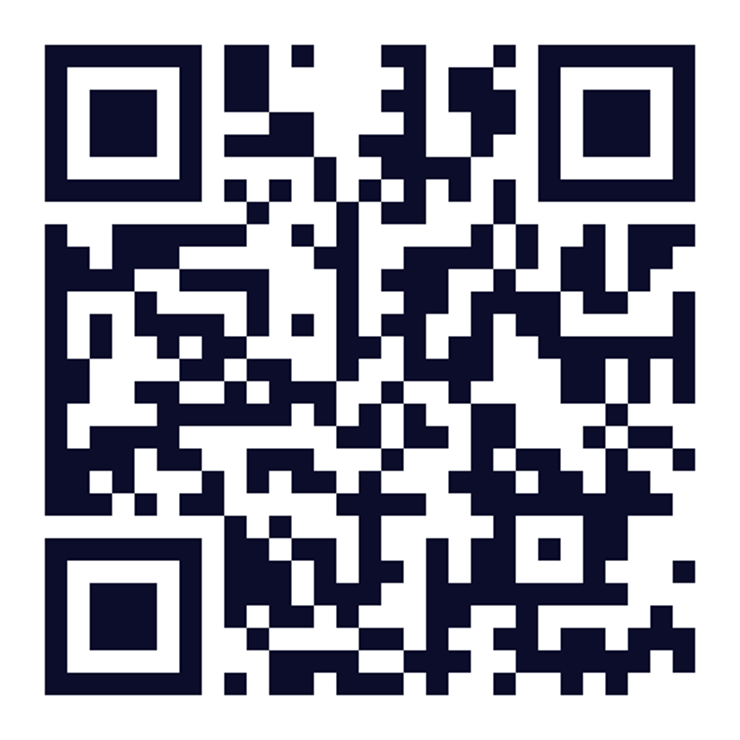
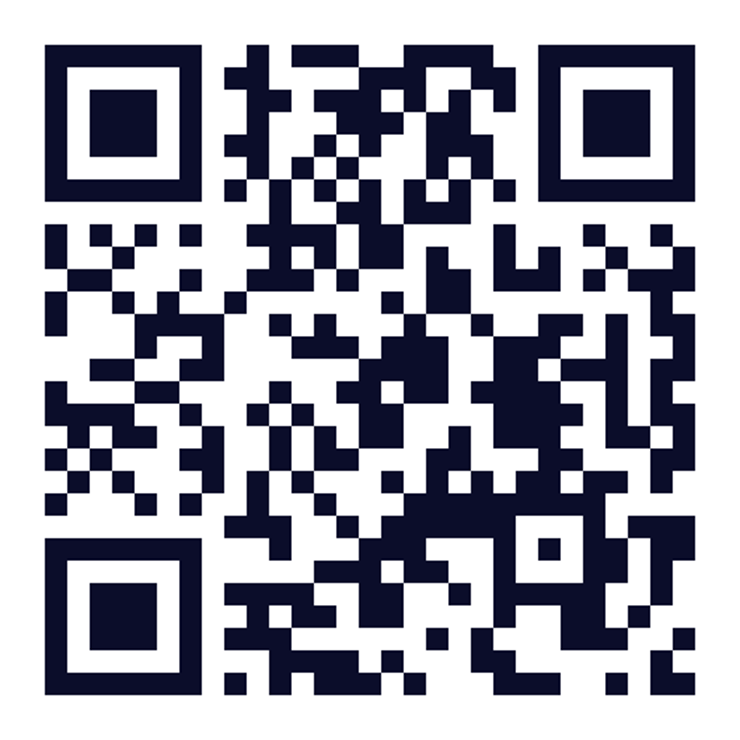
فيديو مدار: الرابط الجديد
Claude-Session: https://claude.ai/code/session_017v5M1oQZvCnQdsBqoiJjSY

diff --git a/madar/index.html b/madar/index.html
@@ -1720,7 +1720,7 @@ function hbar(){
     : '<span class="who">'+p.i+' '+p.n+(who?(V.role==='parent'?' · ولي أمر '+who:' · '+who):'')+'</span><button class="btn" data-gate="out">خروج</button>');
 }
 // ضعي هني رابط الفيديو (يوتيوب) ورابط العرض والملف لما يجهزون
-const MEDIA={youtube:'alVbm8YMbvU', deck:'https://docs.google.com/presentation/d/16qRRJZKLRRnapluf-kK4EDHhLz3aDoSTbxkI0JNTn8E/present', file:''};
+const MEDIA={youtube:'IdzbijICFZ4', deck:'https://docs.google.com/presentation/d/16qRRJZKLRRnapluf-kK4EDHhLz3aDoSTbxkI0JNTn8E/present', file:''};
 function mediaHTML(){
   const v=MEDIA.youtube?'<iframe src="https://www.youtube-nocookie.com/embed/'+MEDIA.youtube+'?rel=0" title="فيديو مَدار" allow="autoplay; encrypted-media; picture-in-picture" allowfullscreen></iframe>'
     :'<div class="soon"><b>🎬</b>فيديو مَدار<br>يوصل قريبًا</div>';
